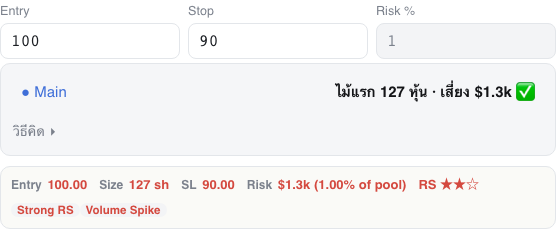
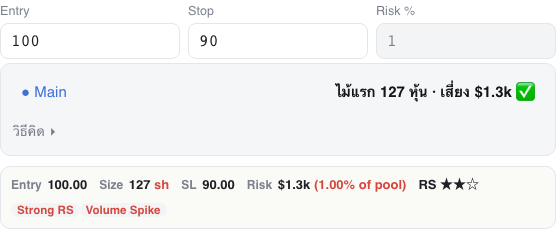
PL2: final report, verify file, screenshots

diff --git a/tests/shots_pl2.py b/tests/shots_pl2.py
@@ -40,6 +40,7 @@ def run(pw, w, h):
         P44.reload_keep(page)
         js(page, "()=>{ switchTab('watch'); wlSetView('wl'); }"); settle(page, 500)
         js(page, "()=>{ wlOpen('MTA'); wlSetSub('view'); }"); settle(page, 900); snap(page, "my-thesis", w)
+        js(page, "()=>{ const m = document.querySelector('.mtWrap'); if(m) m.scrollIntoView({block:'start'}); }"); settle(page, 600); snap(page, "my-thesis-images", w)
     finally: b.close()
     # 3 Sat plan row (verify checkboxes) + 4 trade summary
     b, page, ce, pe = P111.sat_launch(pw, w, h)

diff --git a/docs/reports/PL2-report.md b/docs/reports/PL2-report.md
@@ -1,0 +1,53 @@
+# PL2 + PL2b — final report
+
+Branch `claude/pl2` (based on `claude/pl1-phase-a` — PR #6 is not merged into main). Draft PR + merge are left to the user (see "PR" at the bottom). Files: `index.html` only (+ tests/docs). `core-size.js` untouched.
+
+## 1. What changed
+
+**Item 1 — Weekly Impact (Monday / Saturday)**
+- Monday and Sunday already mapped correctly (a Monday-run doc for this Monday = current week, no warning). Saturday did show "ต่างสัปดาห์" for a run meant for next Monday → `wiCurMon()` now rolls forward to the upcoming Monday **on Saturdays only** (Weekly Impact only; `wpWeekKey`/Strategy weeks untouched). Import validation unchanged (week must be a Monday).
+
+**Item 2 — "Unfinished today" banner** — `td4RemGo()` now navigates: Deep dive → Watch workspace of the pick (market switched); Cand→WL → first unscreened candidate + screening modal; New Cand → Add-Candidate input focused; Satellite → first outstanding Sat plan (Plan › Sat) or the Sat/Plans panel. Missing target → toast "Couldn't open X".
+
+**Item 3 — My Thesis** — tab `มุมมอง` → **My Thesis** (one editor: ① Why buy, ④ Wrong if, Next check, What to check, Save, Archive) + chart images (add / view / remove, same stockNotes storage and viewer) + "Previous notes" (all legacy Event/Fund./Tech notes with tag + date). AI Thesis preview card beside it (wide) / below (narrow) with "imported <date>" / "data as of <date>" + **View AI analysis**; empty state keeps the existing Import action. The Watchlist card keeps only a read-only summary (status, Next check, ① first line) + "Edit in My Thesis ›". Legacy Event/Fund./Tech block removed from the Watchlist tab and Candidate cards (data untouched). Saving My Thesis never writes AI data; importing AI never touches My Thesis.
+
+**Item 4** — Today panel label `Core Port` → `Selection` (nothing else renamed).
+
+**Item 5** — Trade summary block in the Momentum/Compounder plan form: Entry · Size · SL · Risk (money + % of pool) · RS stars · reason tags, same values as the first-lot calc. Always shown (no "qualifies" flag exists, per decision D4); missing input → `Missing: Entry / SL / Pool / Risk budget / …`; RS unrated → `RS: Unrated`.
+
+**Item 6 — Sat Verify** — Classify dropdown → two independently saved checkboxes **EMA50 Verify / Structure Verify** (`ema50_ok`, `structure_ok`). Both = Clear Trend, otherwise Unclear, used everywhere `classify` was read (badge, Tactical lock, readiness, Today status "Needs EMA50 + Structure verify"). Legacy plans keep using the stored `classify` until verification is saved through the new controls (never auto-ticked; "Legacy classification — verification pending" shown). Recorded trades never touched. An empty "unchecked" change event on an unsaved plan is ignored (found by the p80 regression run).
+
+**Item 7 — Candidate-first**
+- Ideas is no longer a required stage: the "already in Ideas" gate, "Back in Ideas" chips/panels, Ideas pill counter, the Today `idea-study` / `idea-recheck` reminders and the onboarding text are gone. The Ideas tab and all idea data stay; `idea-kill` / `idea-held` reminders stay.
+- **One-time automatic Ideas → Candidates migration** (flag `settings.candFromIdeasDone {at, migrated, skipped, reasons}`, idempotent, additive, runs only after a server-confirmed Ideas snapshot): stock companies of counted ideas (`need_evidence`/`ready`, state ≠ park) with a symbol-like ticker; skips: no valid ticker · parked in idea · already in Watchlist · already a Candidate · previously deleted · thematic-only idea · idea status not counted. Migrated records: `manual:true, source:'From Ideas', idea_id, note`. Until the flag is set the old derived list is still shown (nothing disappears if the write fails). `satIdeas*` untouched.
+- Tier A/B removed from selection UI: Edit-modal Tier box, Watchlist/Candidate chips + "ทบทวน", Candidate Tier row + filter chips, Tier warning on "add anyway", Deep-dive homework "Tier" part (5 → 4 parts). Stored tier data and old plans/trades are unchanged; new plans already used the single cap (PL1).
+
+**Item 8 — Swipe zones (PL2b)** — global handler decides at `touchstart` from the start point only: portrait → bottom nav only; landscape → header strip (incl. sync status/nav area) or a visible outer gutter (≥ 8px of empty background outside `#mainWrap`). Detail-tab strips, `.ltTw` tables, `.ideaVc`, inputs etc. are never a start. A recognised swipe swallows the click that follows. Orientation read live via `matchMedia`.
+
+**Item 9 — "เลือกศึกษา" (PL2b)** — *purpose / downstream effect confirmed*: the checkbox saves `user.pick[<segment name>]` in the Ideas doc (`ideaPick` → `ideaUserPatch`); its only consumer is `ideaExportObj()` which writes `chain.segments[].pick` for the idea-scout `pick` mode. It generates nothing inside the dashboard. *Changed per D8*: the checkbox shows **only the user's choice**; the AI's `segments[].pick` is shown as a separate **"AI pick"** chip (next to the existing "AI เสนอ" = `suggest`); export `pick` = user choice only (true only if ticked). Display only: ticked cards first (stable order in both groups), row scrolled horizontally to the card (no page scroll), order rebuilt from `user.pick` on reload, stored `chain.segments` and export order untouched. Helper `plAiPickStats()` (console) returns how many segments have an AI `pick:true` with no user choice — **real count not available to me** (no access to your Firestore); the test fixture gives 2/6.
+
+## 2. What was verified
+- New suites: `run_tests_phase362.py` (PL2 items 1–7, 69 checks), `run_tests_phase363.py` (swipe zones, **WebKit with iPhone UA/touch + Chromium mobile touch**, portrait 390×844 / landscape 844×390 / rotation, 27 checks each, all pass), `run_tests_phase364.py` (item 9, 26 checks).
+- Full suite on this branch (2 parallel + solo reruns of failures): 123 suites, 12,158 checks passed, 18 suites still failing. **All 18 also fail on `main`** (main baseline on the same machine: 116 suites, 34 failing after solo reruns). They are the known environment/date failures (static "backup folder exists" checks in p41–p47/p66/p75, p13, p21, p23, p36, p5, p81, …) plus p80 (`6 แถวบัญชี`, also failing on the PL1-only base). I also compared failing check names of the shared failures: none new except p59/p64 expectation fixes made afterwards (re-run green). PL2b-only suites (363/364) and the Ideas suites (p41/42/44/46/49) were re-run after the last change; only the same static-backup failures remain. Logs: `/private/tmp/full/{pl2,pl2b,main}` (not in the repo).
+- Every changed/retired expectation is in `tests/PL2_retired.md` (33 rows). `tests/make_verify.sh PL2` → `docs/reports/PL2-verify.txt`.
+- Screenshots 390 / 1440 in `docs/briefs/PL2-screens/` (Today banner + Selection, My Thesis + images + AI card, Sat plan row, trade summary, Candidates + screening, Value Chain order).
+- WebKit (78 MB) was downloaded into the Playwright cache to run the swipe tests.
+
+**Only a real iPhone can confirm** (checklist for you): (1) a swipe starting in the 16px landscape gutters — iOS may take the Safari back/forward edge gesture instead (as agreed, no workaround); (2) swipe from the bottom nav near the home indicator; (3) momentum/rubber-band feel while scrolling the Value Chain row and Evidence table, and that a diagonal start inside them never changes the tab; (4) a rotation mid-gesture; (5) that a swipe ending on a button never taps it on real touch; (6) Safari URL-bar collapse does not change which zone is "bottom nav"; (7) My Thesis image viewer (pinch/zoom) on a real TradingView snapshot (emulation used placeholders).
+
+## 3. Unresolved trading-rule / product decisions
+1. **Daily-goal numbers changed**: removing the Tier part makes the Deep-dive homework 4 parts, so Daily goal totals (e.g. `10/15 → 9/14`) and past-day percentages (e.g. 60% → 57%) shift. Old routine logs are not edited (stored `tier` entries are ignored). Confirm this is acceptable.
+2. **Plan-card `Tier…` button** (existing plans) and **Settings › Tier criteria / tier caps** were kept: legacy plans still size from their stored tier. Remove them too, or keep until legacy plans are closed?
+3. **Sizing for new plans** was already tier-free (PL1: `CS_CAP_KEY='A'`); nothing in PL2 changed sizing math.
+4. After the one-time migration **new Ideas never feed Candidates automatically** — Candidates are added manually (or by re-running the migration, which I did not build). OK?
+5. Migrated Candidates have **no Ideas source info**, so the "＋ เพิ่มเข้า Watchlist" button on the Candidate card is disabled ("no confirming source"); promotion goes through Evaluate (screening modal). Intended?
+6. Candidate cards **no longer show the old Event/Fund./Tech notes** (data kept; visible in My Thesis after promotion). Needed earlier?
+7. Watchlist rows now show the **market chip** where the Tier chip used to be; the worst-case row (long alerts + phase + 3 dots) wraps its dots to a 2nd line at 355px (`run_tests_phase94` relaxed to ≤ 2 lines).
+8. Saturday Weekly Impact roll-forward (D1) applies only to Weekly Impact; Plan/Strategy weeks still use Sunday-start keys.
+9. Existing Ideas with AI `pick:true` and no user choice will export `pick:false` from now on (per D8) — re-tick what you want studied.
+
+## Migration numbers
+Real migrated / skipped counts are written when the app first loads after the update: `settings.candFromIdeasDone` and a console line `PL2 Ideas→Candidates migration: {…}`. Fixture run (test 362): migrated 2, skipped 7 (parked 1, invalid ticker 1, already in Watchlist 1, already Candidate 1, previously deleted 1, thematic-only 1, idea not counted 1).
+
+## PR
+`gh` is not installed here and the standing rules say no push, so the Draft PR was **not** created. To create it: `git push -u origin claude/pl2` then open a **draft** PR `claude/pl2 → claude/pl1-phase-a` (or → main after PR #6 merges). Suggested body = this report. Do not merge.
